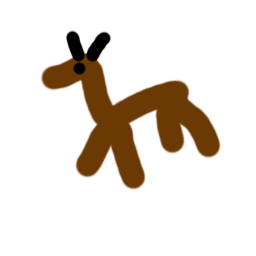
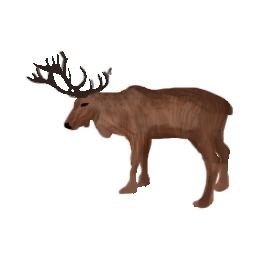
New graphics, fixed pathfind

Changed region(s): [[0.0938, 0.125, 0.9062, 0.8125]]

diff --git a/src/game/pathfinding.ts b/src/game/pathfinding.ts
@@ -18,8 +18,8 @@ function breadthFirstPathfind(start: Coordinate, end: Coordinate, passableCallba
     
     // the loop starts with first coordinate by default
     while (frontier.length > 0) {
-        const newAnalysisCoordinate = frontier[frontier.length - 1]
-        frontier.splice(frontier.length - 1, 1)
+        const newAnalysisCoordinate = frontier[0]
+        frontier.splice(0, 1)
         if (equalCoordinates(newAnalysisCoordinate, end)){
             break
         }
@@ -44,6 +44,7 @@ function breadthFirstPathfind(start: Coordinate, end: Coordinate, passableCallba
         if (current === undefined)
             break
     }
+    path.push(start)
     return path.reverse()
 }
 
